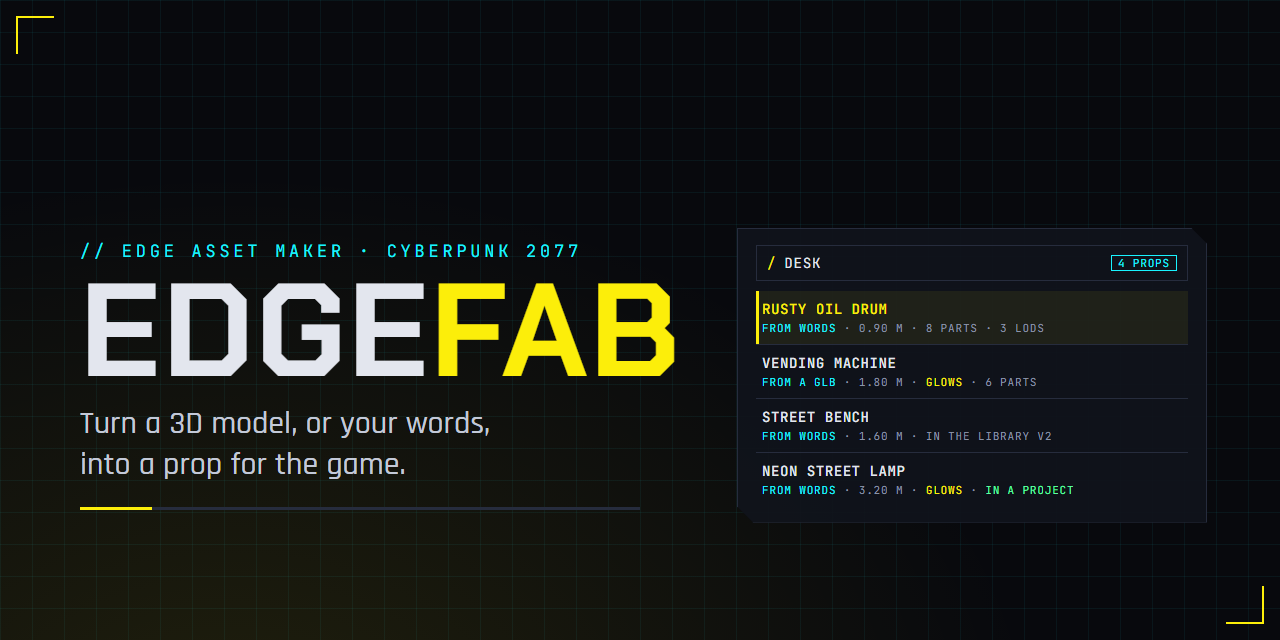
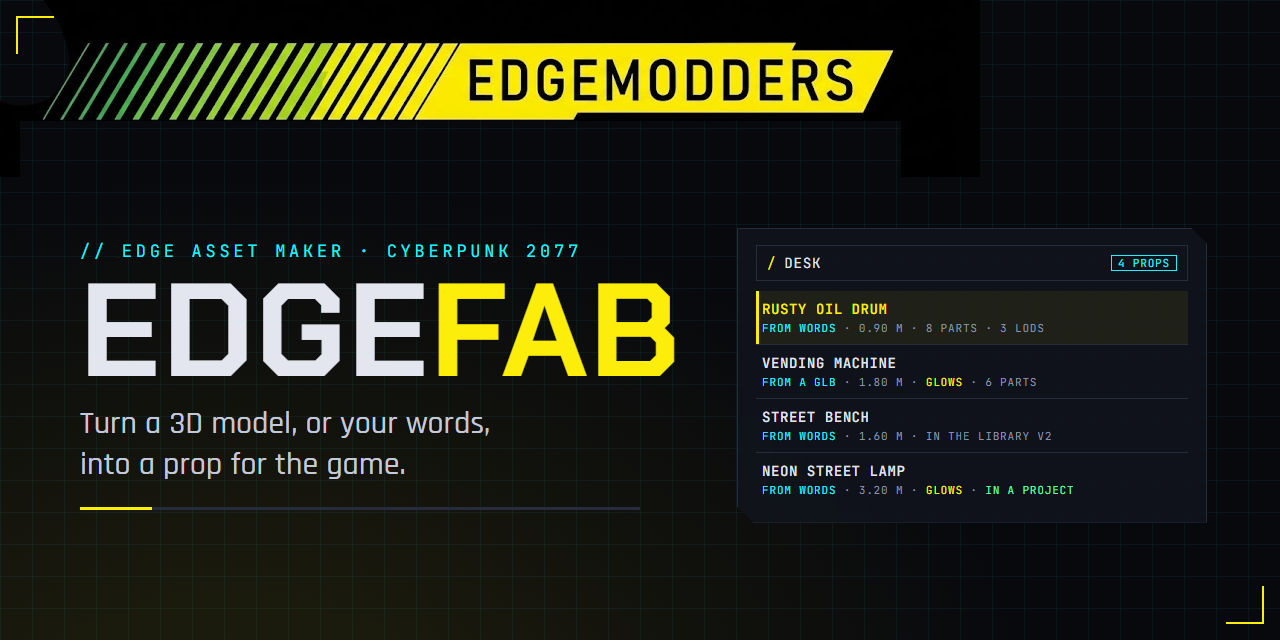
Nexus primary image with the EDGEmodders header (added by the owner)

Changed region(s): [[0.0312, 0.0625, 0.7188, 0.1875]]

diff --git a/nexus/README.md b/nexus/README.md
@@ -24,7 +24,7 @@ From the first release on, the Release workflow's **Update Nexus Mods** box uplo
 | Brief overview | Turn a 3D model, or your words, into a prop for Cyberpunk 2077, in VS Code: real size, levels of detail, materials and collision, into your mod project, ready to place. Or ask Claude. A preview, and a VS Code extension, not a game mod. (255 characters at most; this is 235) |
 | Author | Edgemodders |
 | Language | English |
-| Primary image | `docs/assets/brand/nexus.png` (1280 x 640, the props layout with a Desk, room at the top for the EDGEmodders header the owner adds by hand). The banner (`docs/assets/brand/banner.png`) is already at the top of the description |
+| Primary image | `docs/assets/brand/nexus.png` (1280 x 640, the props layout with a Desk, and the EDGEmodders header the owner added by hand on 2026-11-15. `tools/brand/render.ps1` draws it without the header: rendering it again means adding the header again). The banner (`docs/assets/brand/banner.png`) is already at the top of the description |
 | Requirements | On Nexus: REDcode (35421); EDGEbuilder (36627) to place props, optional. Off-site: VS Code 1.70 or later (or VSCodium, or EDGEkit); optional Tripo and OpenAI API keys, for props from words |
 | Permissions | MIT: open source, free to modify and redistribute with the license notice. Bundled packages keep their licenses (`THIRD-PARTY-NOTICES.txt`). REDbridge, which comes with REDcode, is GPL-3.0 |
 | Tags | Modders resource, utility, tools |
